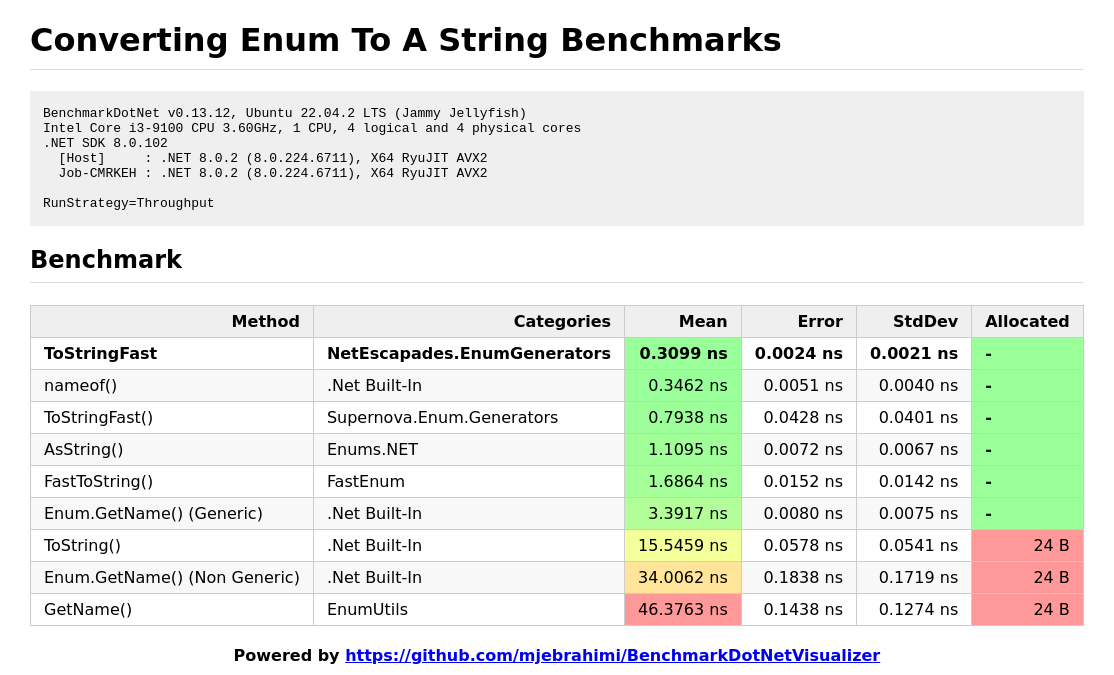
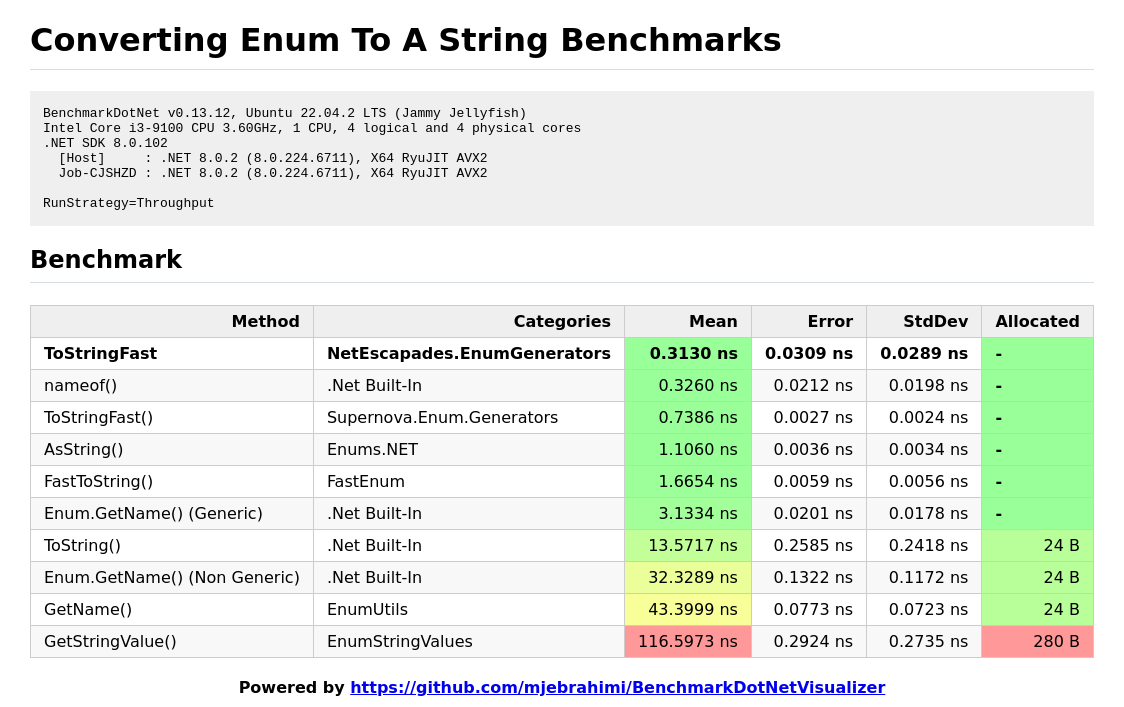
feat: add some notes about benchmark in readme

diff --git a/Convert-Enum-To-String-Benchmark/README.md b/Convert-Enum-To-String-Benchmark/README.md
@@ -3,8 +3,16 @@
 
 ## Key Results:
 
-- Using `nameof()` is the **Fastest** way to convert enum to a string. As you see it takes 0.0 ns/op because it actually complies to a just literal string ([see the compiled code](https://sharplab.io/#v2:EYLgtghglgdgPgAQMwAIECYUGEUG8CwAUCiWqggIwAMKAsgBQCUeRpbaA7CjBGAKYB7AGb1aATwCiMAK5gAdAEEAMgJgBzBTAAmANT4AnYAIDOfKbIByvPowDcrUgF8HJF2RR8ZYOpK9uCxOwkyqoa2nqGJmZeVvxuzoSOQA))
-- `nameof()` has the most efficient memory allocation beside `Enum.GetName()`(Generic overload).
-- Using `Enum.GetName(Enum.GetName(typeof(MyEnum), MyEnum.ALongAndVerboseEnumName))` (Non-Generic overload) has the worst speed. (The main reason IMO is that it leads to boxing/unboxing)
+- `NetEscapades.EnumGenerators` nuget has the **Fastest** method for converting an enum to string, even faster than .Net built-in methods. Its secret is because it uses source generators.
+- Using `nameof()` is the **Fastest** way to convert an enum to string among .Net built-in methods. As you see it takes 0.0 ns/op because it actually complies to a just literal string ([see the compiled code](https://sharplab.io/#v2:EYLgtghglgdgPgAQMwAIECYUGEUG8CwAUCiWqggIwAMKAsgBQCUeRpbaA7CjBGAKYB7AGb1aATwCiMAK5gAdAEEAMgJgBzBTAAmANT4AnYAIDOfKbIByvPowDcrUgF8HJF2RR8ZYOpK9uCxOwkyqoa2nqGJmZeVvxuzoSOQA))
+- `EnumStringValues` nuget has the worst method for converting an enum to string. It does boxing/unboxing multiple times and also uses bunch of linq methods in background which IMO are the main reasons why it's so slow and inefficient.
+
+Benchmarked NuGets:
+- [NetEscapades.EnumGenerators](https://github.com/andrewlock/NetEscapades.EnumGenerators)
+- [Supernova.Enum.Generators](https://www.nuget.org/packages/Supernova.Enum.Generators)
+- [Enums.NET](https://www.nuget.org/packages/Enums.NET)
+- [FastEnum](https://www.nuget.org/packages/FastEnum)
+- [EnumUtils](https://www.nuget.org/packages/EnumUtils/2.1.8-pre)
+- [EnumStringValues](https://www.nuget.org/packages/EnumStringValues)
 
 ![benchmark](Benchmark.png)
